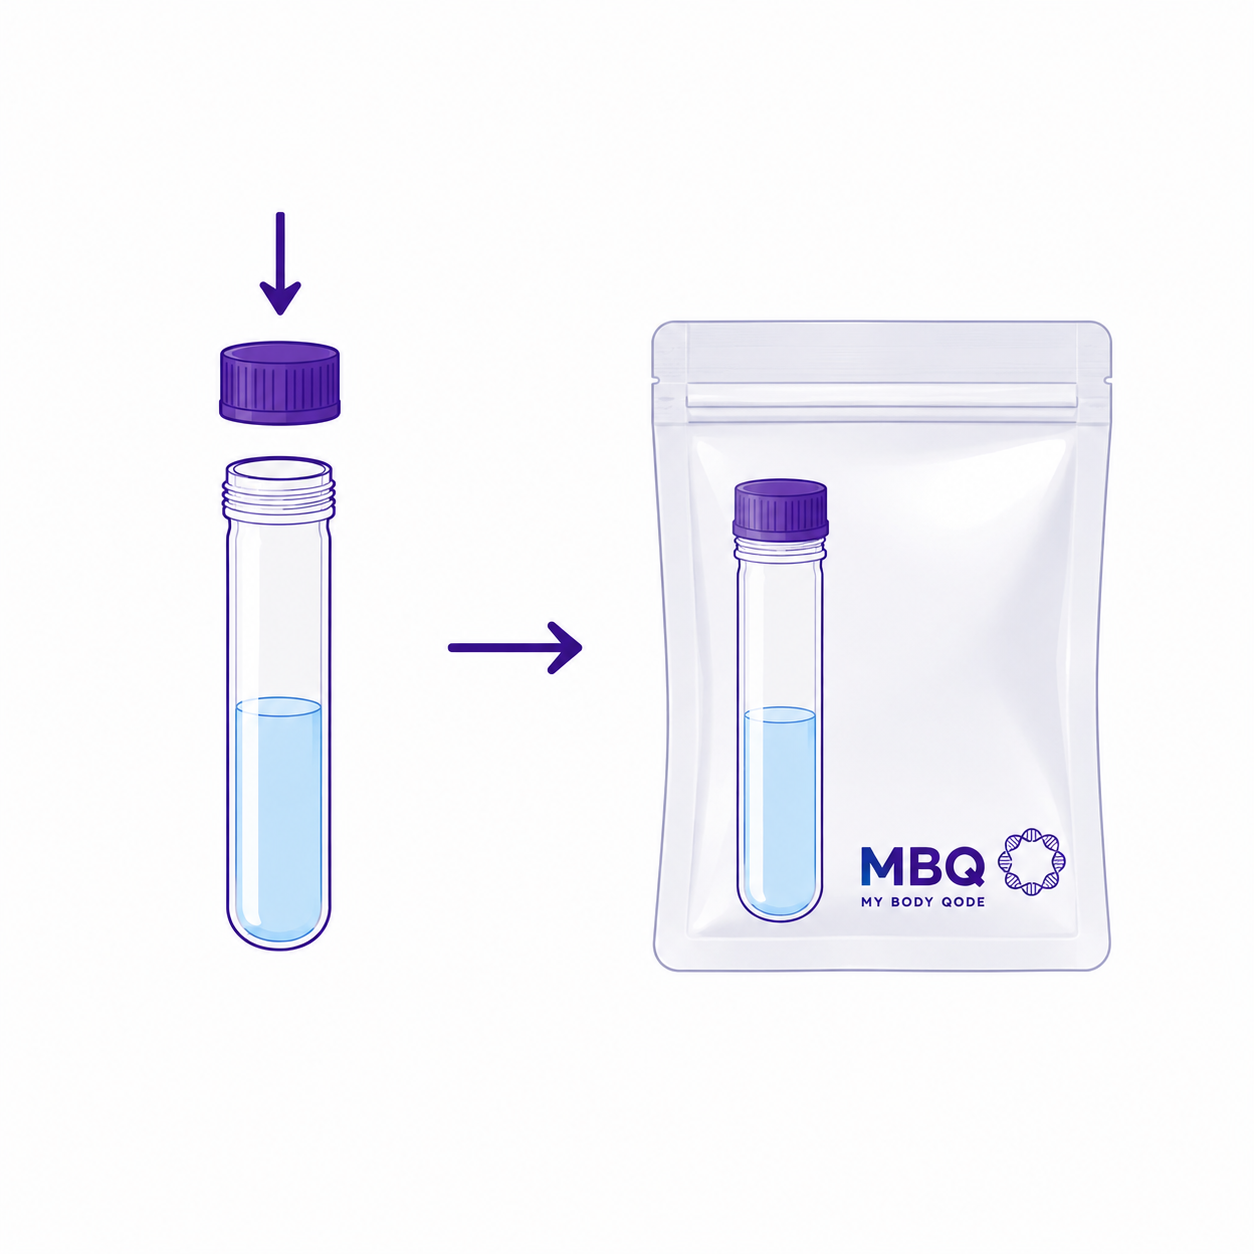
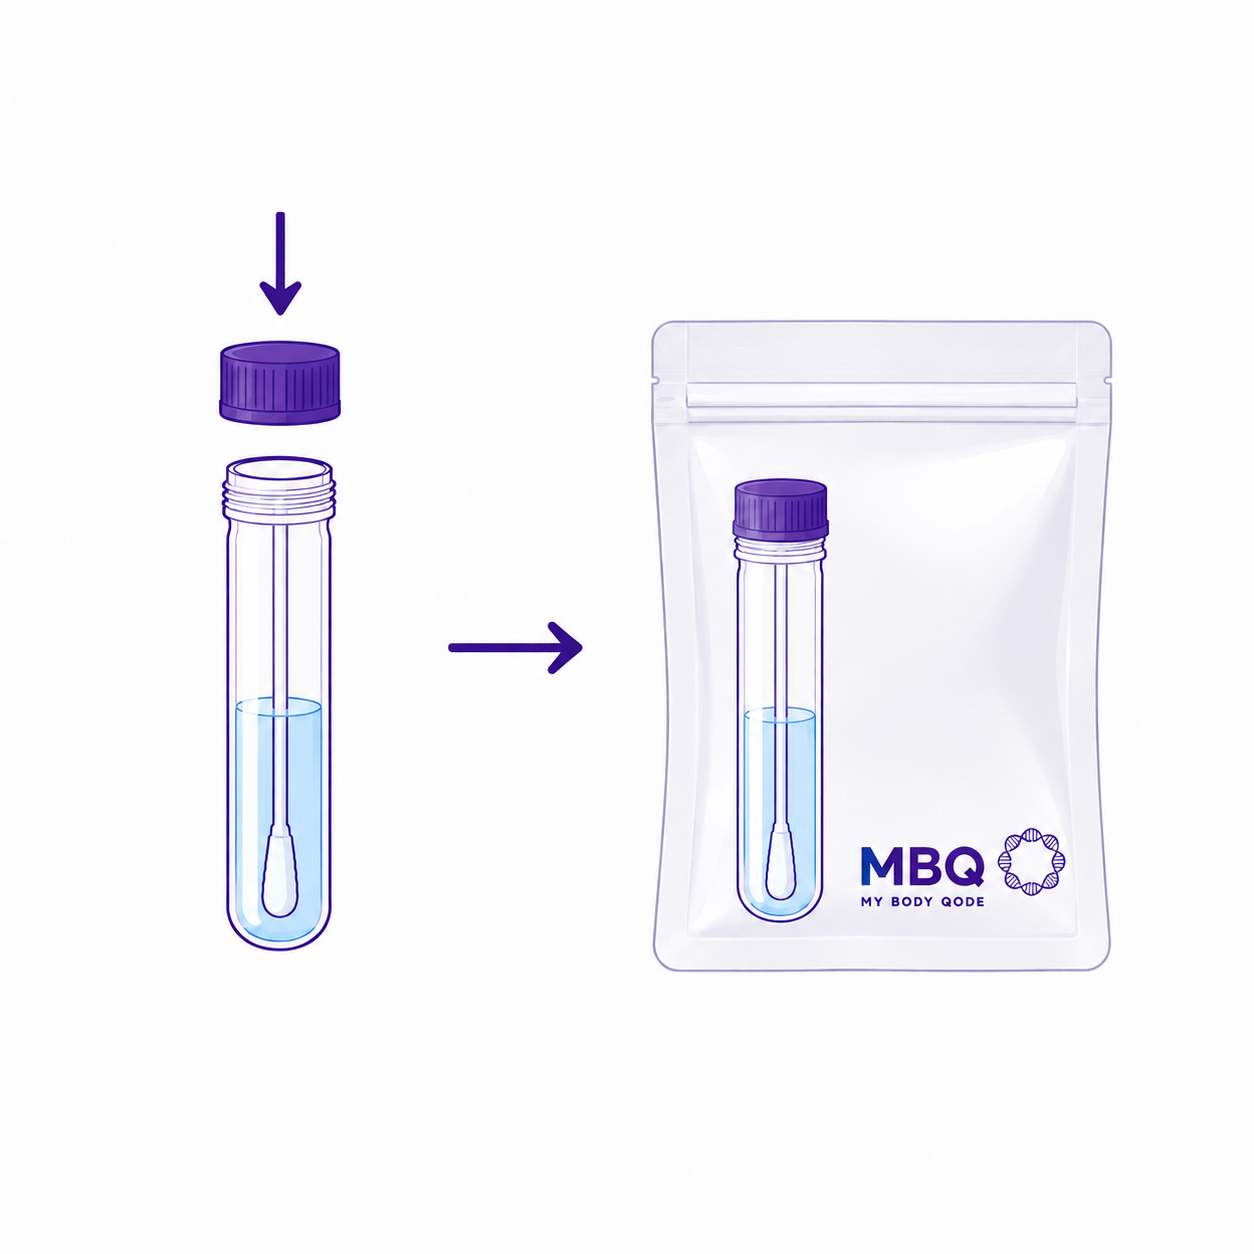
refactor: remove redundant tutorial step and update image assets in registration flow

diff --git a/src/pages/RegisterPage.tsx b/src/pages/RegisterPage.tsx
@@ -10,7 +10,6 @@ import img3 from '../assets/illustations/3.png';
 import img4 from '../assets/illustations/4.png';
 import img5 from '../assets/illustations/5.png';
 import img6 from '../assets/illustations/6.png';
-import img7 from '../assets/illustations/7.png';
 import img8 from '../assets/illustations/8.png';
 
 const TUTORIAL_IMAGES = [
@@ -20,7 +19,6 @@ const TUTORIAL_IMAGES = [
   img4,
   img5,
   img6,
-  img7,
   img8,
 ];
 
@@ -322,9 +320,8 @@ const TUTORIAL_STEPS = [
   { title: "Step 3: Swab the Right Cheek", desc: ["Using the same swab, rub the inside of your right cheek.", "Continue for 15–20 seconds minimum.", "Again, avoid touching your tongue."], timer: 20 },
   { title: "Step 4: Place Swab in Collection Tube", desc: ["Open the pre-labeled collection tube containing the solution.", "Immediately place the swab tip into the tube."] },
   { title: "Step 5: Mix the Sample", desc: ["Close the tube if required.", "Gently swirl or rotate the swab in the solution for about 10 seconds."], timer: 10 },
-  { title: "Step 6: Remove and Discard Swab", desc: ["While pulling the swab out, squeeze the sides of the tube to release liquid from the swab tip.", "Dispose of the used swab in a trash bin."] },
-  { title: "Step 7: Seal the Tube", desc: ["Tightly close the collection tube cap.", "Ensure it is securely sealed."] },
-  { title: "Step 8: Pack for Return", desc: ["Place the sealed collection tube into the provided zip pouch.", "Seal the pouch.", "Return the sample according to the kit instructions."] },
+  { title: "Step 6: Seal the Tube", desc: ["Tightly close the collection tube cap.", "Ensure it is securely sealed."] },
+  { title: "Step 7: Pack for Return", desc: ["Place the sealed collection tube into the provided zip pouch.", "Seal the pouch.", "Return the sample according to the kit instructions."] },
 ];
 
 const GENE_OPTIONS = [
@@ -808,7 +805,7 @@ export default function RegisterPage() {
                 <ChevronDown size={16} strokeWidth={2.5} />
               </div>
             </div>
-            
+
             <div className="mb-4 text-left">
               <label className="block text-sm font-medium text-[#8B8B86] mb-1.5 pl-1">Gene Selection</label>
               {selectedGenes.map((gene, index) => (
@@ -826,9 +823,9 @@ export default function RegisterPage() {
                     >
                       <option value="" disabled>Select Gene Type</option>
                       {GENE_OPTIONS.map((opt) => (
-                        <option 
-                          key={opt} 
-                          value={opt} 
+                        <option
+                          key={opt}
+                          value={opt}
                           disabled={selectedGenes.some((val, idx) => idx !== index && val === opt)}
                         >
                           {opt}